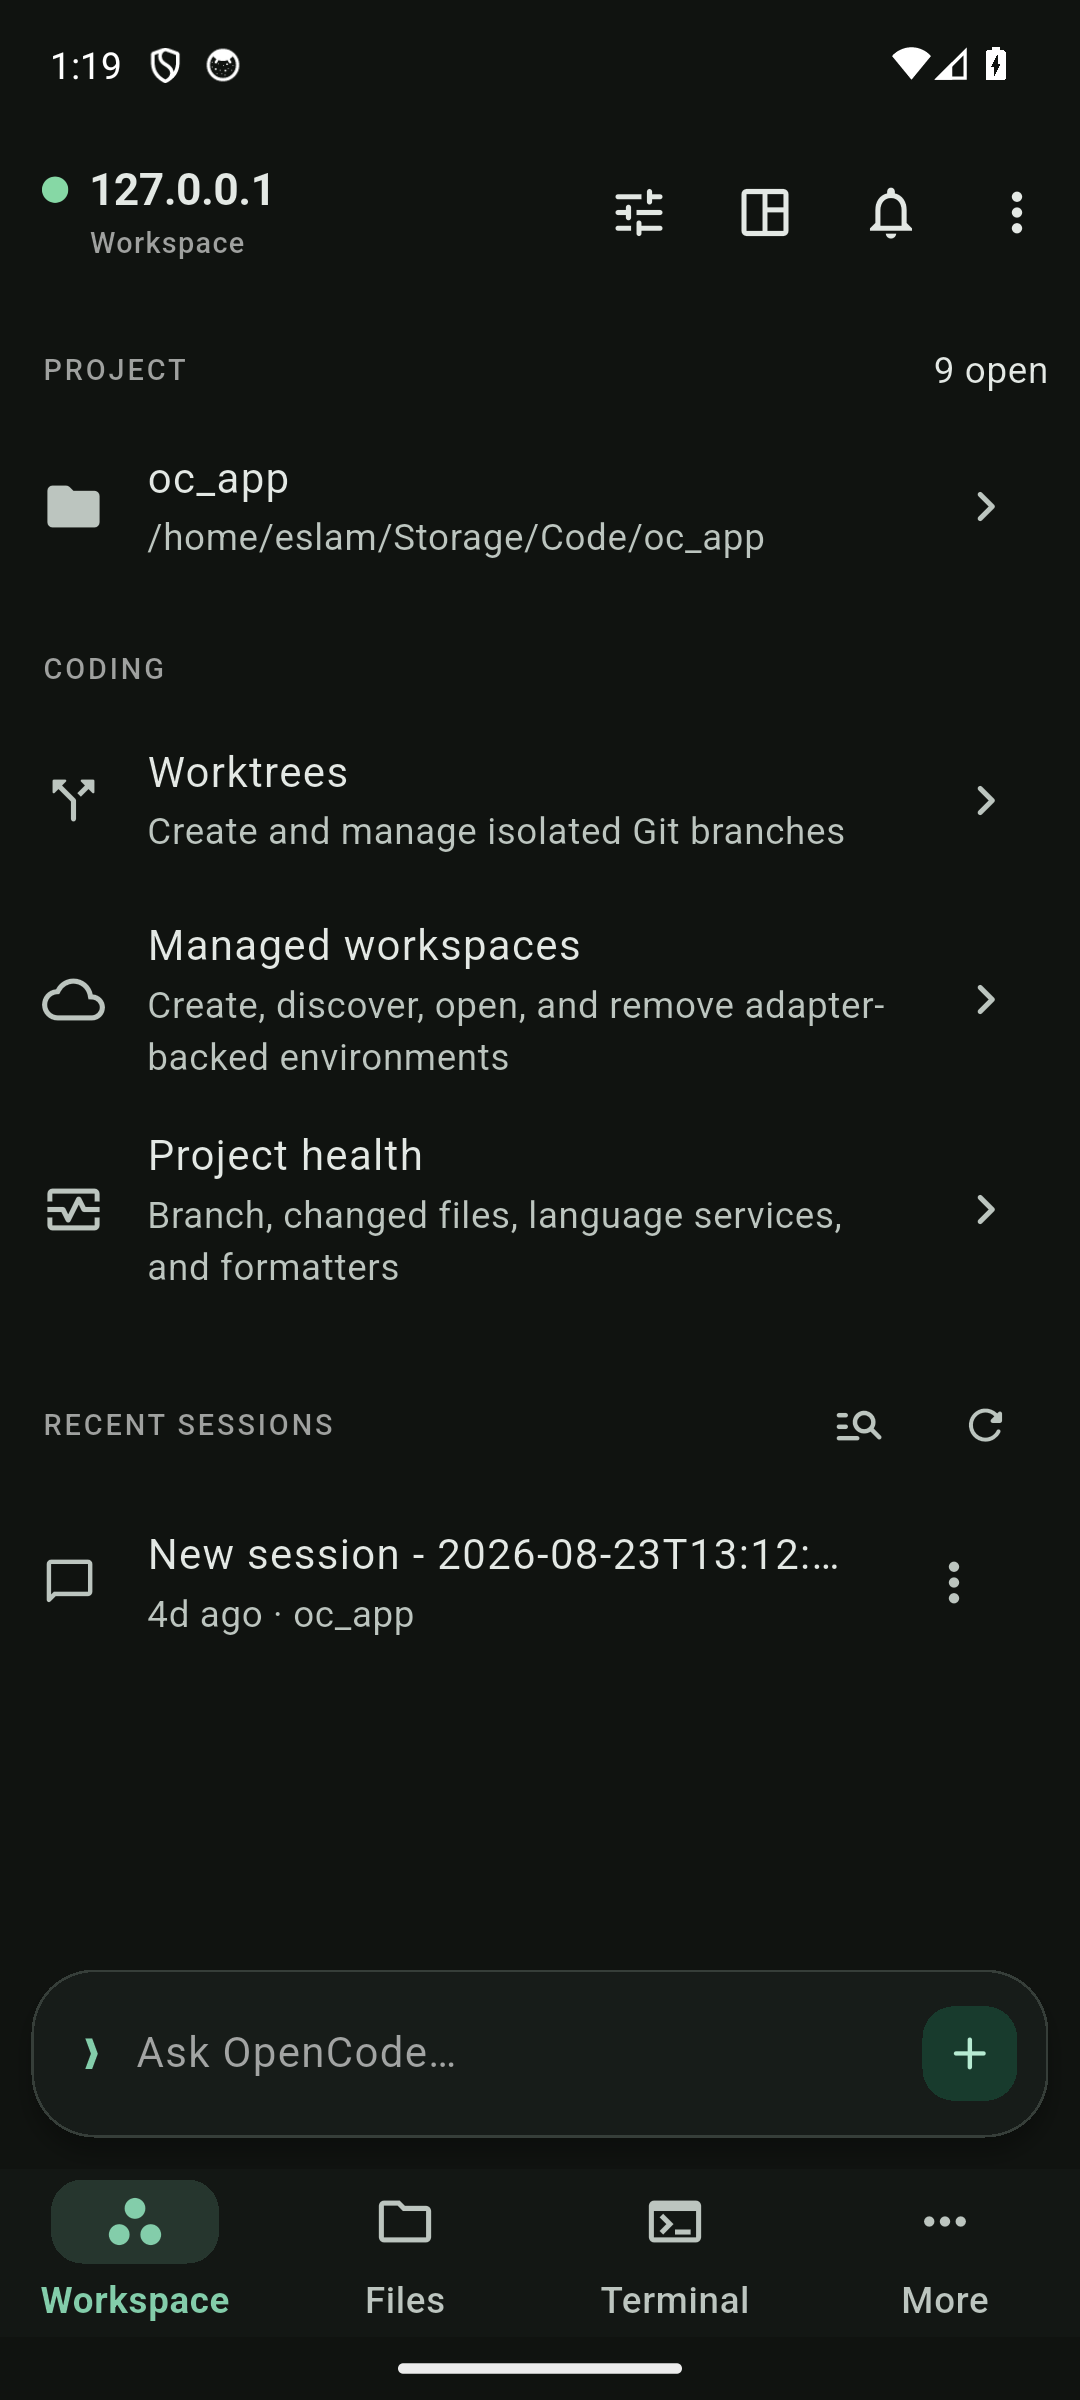
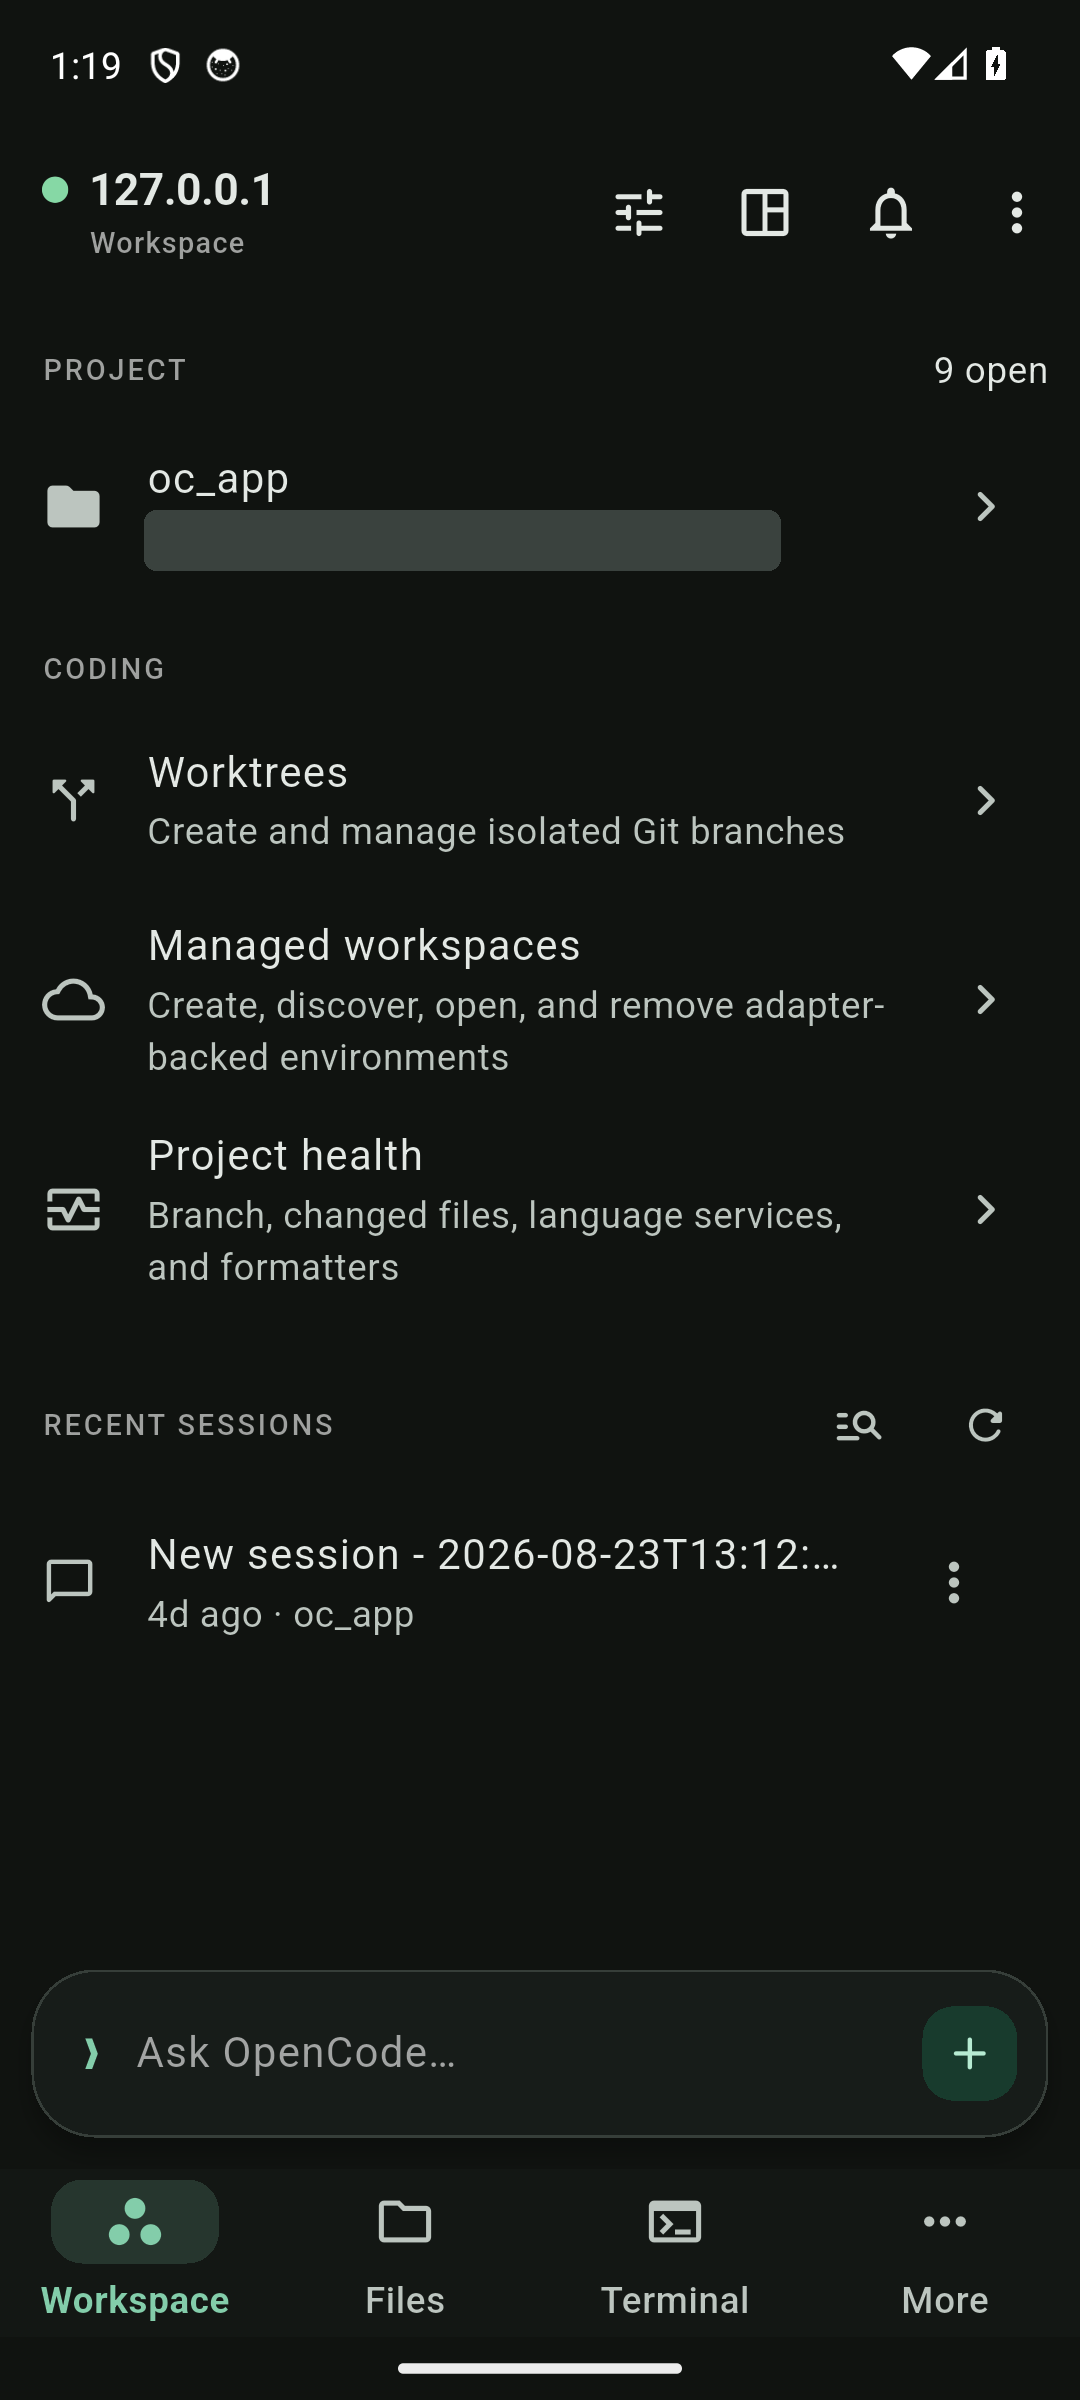
Redact the machine path from the README workspace screenshot
still-workspace.png showed the recording machine's absolute project path
(/home/eslam/Storage/Code/oc_app) in the PROJECT row. Paint a solid,
opaque, rounded block over that line in the UI's own surface style —
irreversible, unlike a blur — and say so in the README so the retouch is
disclosed rather than hidden.

The other three tracked stills were checked and left alone:
- still-rec3-end.png: a real transcript, but entirely about this public
  repo's test layering; the CI billing remark it ends on is already
  stated in README.md, SECURITY.md and both workflow files.
- still-more-grid.png: chrome only, no path, title or transcript.
- still-steal-sheet.png: synthetic demo session names
  ("steal-proof-preview4" in workspace "oc-steal-proof").

Claude-Session: https://claude.ai/code/session_01QeDXSwRj4CA3pkFFRFb8Ex

Changed region(s): [[0.1222, 0.1875, 0.7333, 0.25]]

diff --git a/README.md b/README.md
@@ -113,6 +113,10 @@ Current screenshots have not been recut.
 |---|---|---|---|
 | ![Workspace](video/public/shots/still-workspace.png) | ![Live run with context meter](video/public/shots/still-rec3-end.png) | ![More grid](video/public/shots/still-more-grid.png) | ![Continue-here sheet](video/public/shots/still-steal-sheet.png) |
 
+The project row in the first shot carries a solid redaction bar: the capture
+showed the recording machine's absolute project path, which is not something a
+screenshot needs to prove. Nothing else in these four is retouched.
+
 The 2.5-minute showcase video was cut from on-device recordings of the same
 preview 7 build and carries the same caveat:
 
